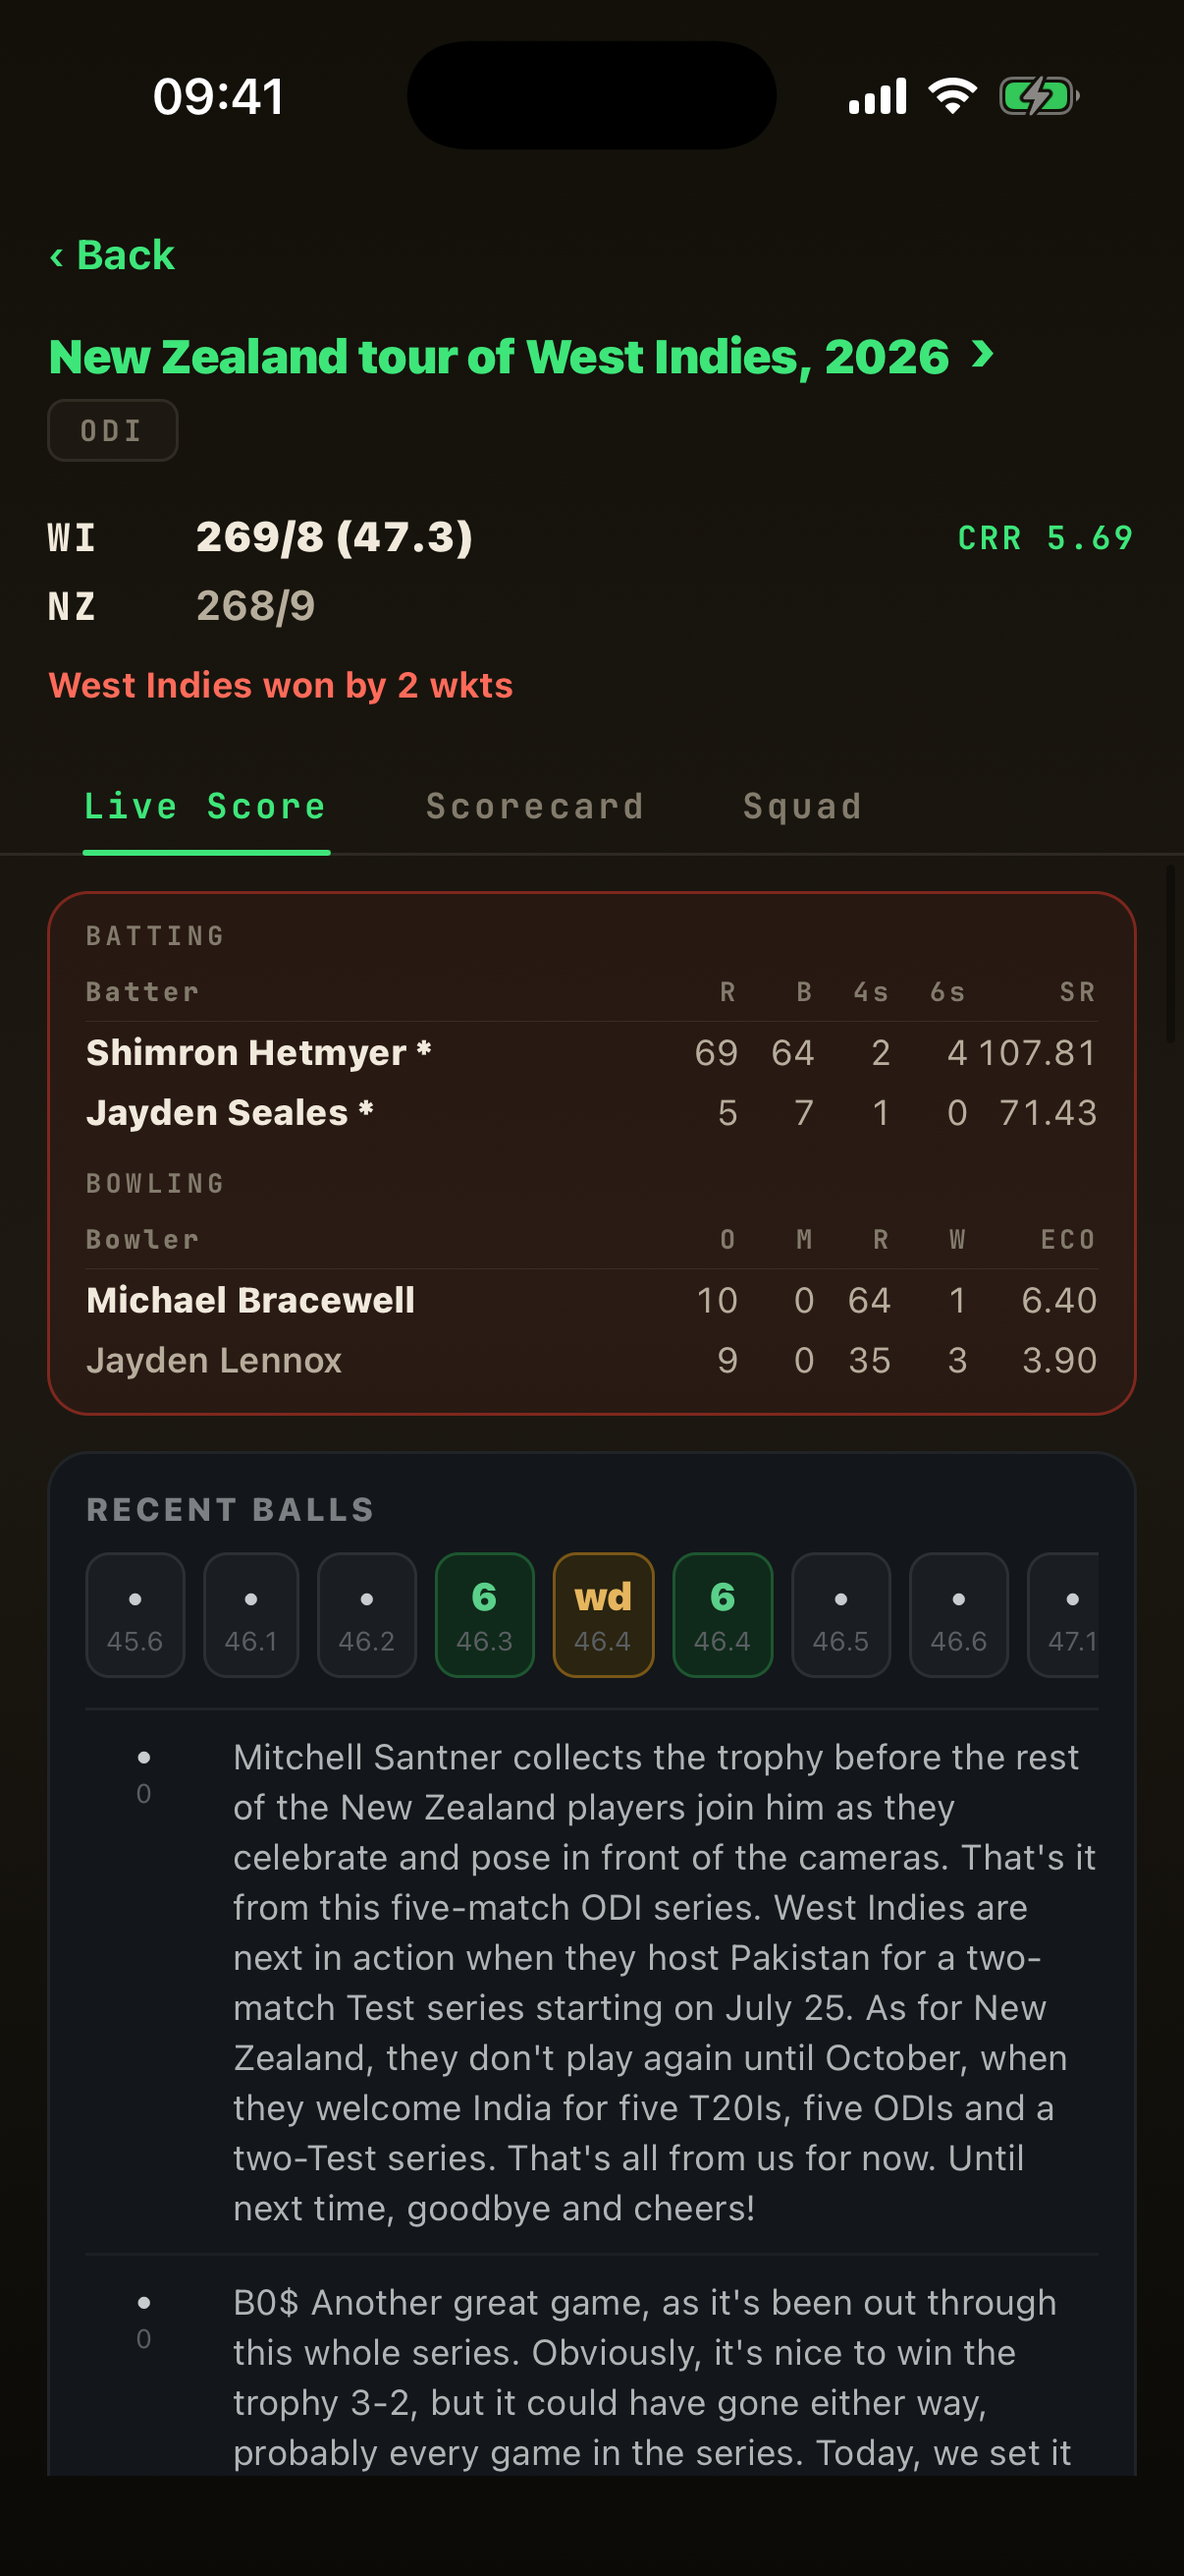
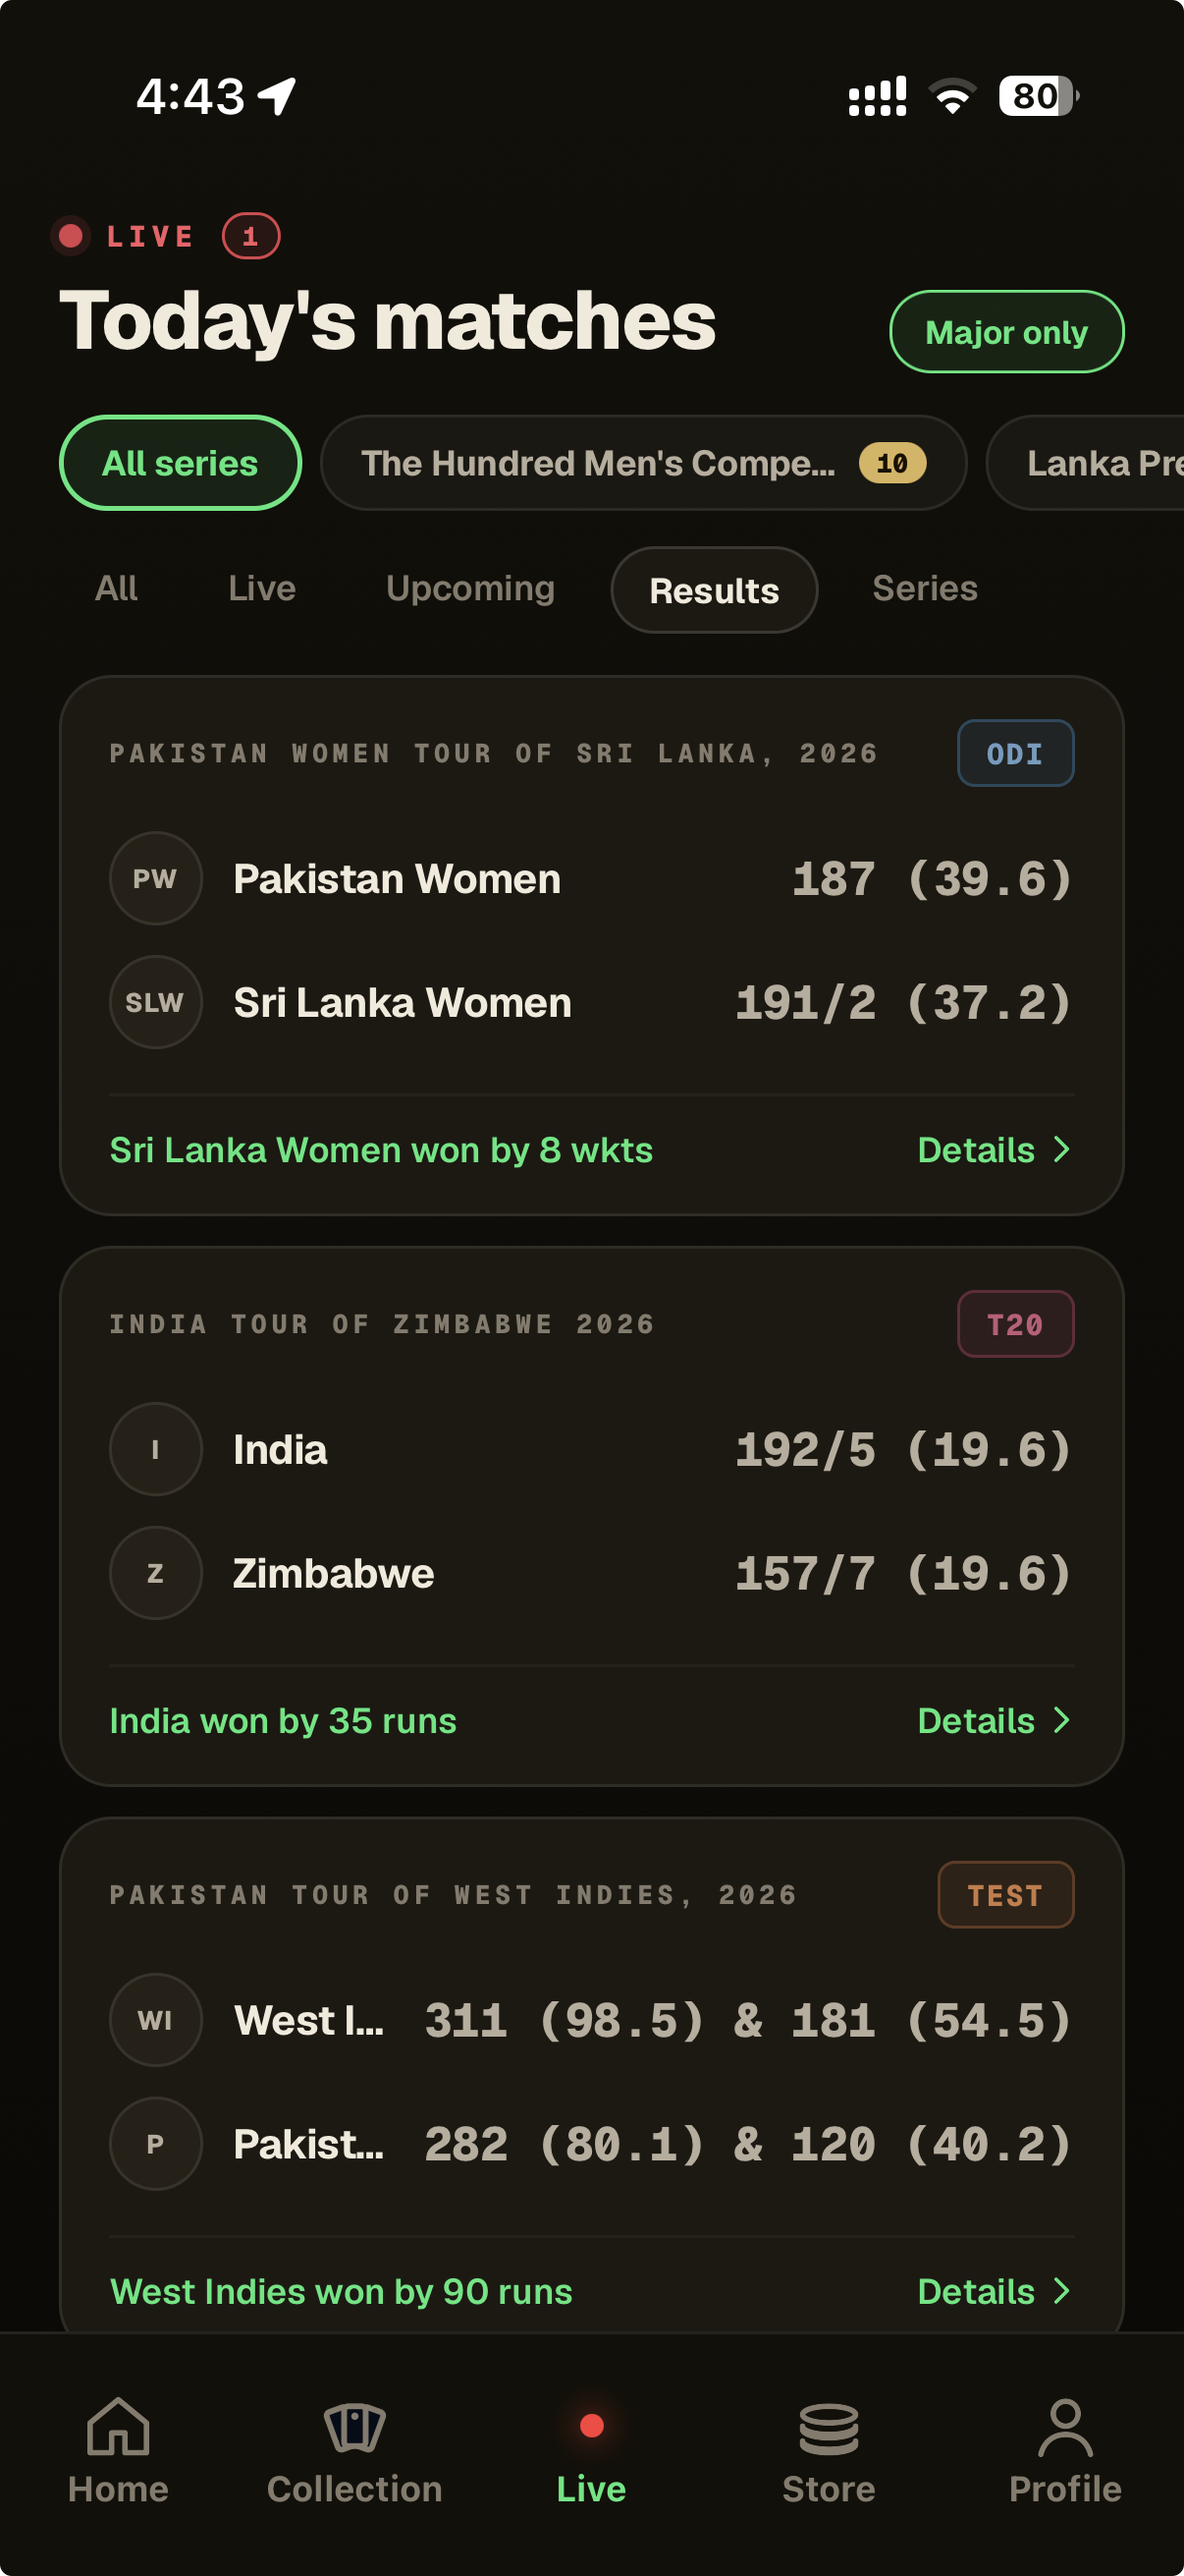
story deck: real Live match-list screenshot (Today's matches)

diff --git a/docs/story/index.html b/docs/story/index.html
@@ -3,7 +3,7 @@
 <head>
 <meta charset="utf-8" />
 <meta name="viewport" content="width=device-width, initial-scale=1" />
-<title>Zero Lines of Code — The Build Story (story-first)</title>
+<title>Zero Lines of Code — The Build Story</title>
 <style>
   :root{
     --bg:#0b0a07; --bg3:#12100b; --ink:#f1eadc; --muted:#b3aa95; --faint:#847b68;
@@ -158,6 +158,66 @@
     </div>
   </section>
 
+  <!-- 10 · THE GAME · RULES + HOW TO PLAY -->
+  <section class="slide" data-notes="The result — the game itself. It's a stat-comparison card game, Top Trumps for cricket. Hold a hand of real cricketers, call a stat each round, the better number wins the card (lower for bowling average and economy), most cards wins. And the app teaches it in three screens: a starter squad dealt on first launch, a live stat-duel demo, and the format + opponent picker.">
+    <div class="fill row mt-s" style="gap:2vw;align-items:center">
+      <div class="col gap-m" style="flex:1;min-width:0">
+        <div class="kicker">The game · how it plays</div>
+        <h2>Top Trumps, <span class="grad">for cricket.</span></h2>
+        <div class="steps">
+          <div class="step"><span class="b">1</span><div><div class="st">Hold a hand of cards</div><div class="sd">real cricketers — batsmen, bowlers, all-rounders</div></div></div>
+          <div class="step"><span class="b">2</span><div><div class="st">Call a stat each round</div><div class="sd">pick your strongest number — runs, wickets, strike rate</div></div></div>
+          <div class="step"><span class="b">3</span><div><div class="st">Better number wins</div><div class="sd">higher wins — <span class="gold">lower</span> for bowling average &amp; economy</div></div></div>
+          <div class="step"><span class="b">4</span><div><div class="st">Capture the card</div><div class="sd">most cards wins the match · 30-second turns</div></div></div>
+        </div>
+        <div class="row wrap gap-s" style="gap:10px"><span class="chip g">Test</span><span class="chip g">ODI</span><span class="chip g">T20</span><span class="chip g">IPL</span></div>
+      </div>
+      <div class="col center"><div class="phone wide ph-h60"><img src="assets/s-htp1.png" alt=""></div><div class="cap">Welcome<small>starter squad, dealt free</small></div></div>
+      <div class="col center"><div class="phone wide ph-h60"><img src="assets/s-htp2.png" alt=""></div><div class="cap">Live demo<small>call a stat · better wins</small></div></div>
+      <div class="col center"><div class="phone wide ph-h60"><img src="assets/s-htp3.png" alt=""></div><div class="cap">Ready to clash<small>pick format &amp; opponent</small></div></div>
+    </div>
+  </section>
+
+  <!-- 11 · GAMEPLAY IN ACTION -->
+  <section class="slide" data-notes="See it played. The toss decides who calls first — real lineups, real faces. Then one stat decides each round: the better number captures the opponent's card. Win or lose, every finished match drops free cards into your collection — two if you win.">
+    <div class="col stagger" style="gap:6px"><div class="kicker">The game · in action</div><h2>Call a stat. <span class="grad">Better wins.</span></h2></div>
+    <div class="grid4 fill mt-m" style="align-items:start">
+      <div class="col center"><div class="phone wide ph-h54"><img src="assets/s-toss.png" alt=""></div><div class="cap">The toss<small>real lineups · winner plays first</small></div></div>
+      <div class="col center"><div class="phone wide ph-h54"><img src="assets/s-match.png" alt=""></div><div class="cap">Call a stat<small>your card, your call — 30s a turn</small></div></div>
+      <div class="col center"><div class="phone wide ph-h54"><img src="assets/s-win.png" alt=""></div><div class="cap">Round won<small>better number takes the card</small></div></div>
+      <div class="col center"><div class="phone wide ph-h54"><img src="assets/s-reward.png" alt=""></div><div class="cap">Match reward<small>a free card every match · 2 for a win</small></div></div>
+    </div>
+  </section>
+
+  <!-- 12 · THE SURFACES -->
+  <section class="slide" data-notes="And the surfaces: Store sells players and packs for coins; Collection is your squad with format and role filters; Home is the hub — modes, streaks, your cards; and every card opens to full real career stats. Every screenshot is the real app.">
+    <div class="col stagger" style="gap:6px"><div class="kicker">The surfaces</div><h2>Four tabs, the whole game.</h2></div>
+    <div class="grid4 fill mt-m" style="align-items:start">
+      <div class="col center"><div class="phone wide ph-h60"><img src="assets/s-store.png" alt=""></div><div class="cap">🛒 Store<small>buy players &amp; packs for coins</small></div></div>
+      <div class="col center"><div class="phone wide ph-h60"><img src="assets/s-collection.png" alt=""></div><div class="cap">📦 Collection<small>your squad · filter by format/role</small></div></div>
+      <div class="col center"><div class="phone wide ph-h60"><img src="assets/s-home.png" alt=""></div><div class="cap">🏠 Home<small>modes · streaks · your cards</small></div></div>
+      <div class="col center"><div class="phone wide ph-h60"><img src="assets/s-carddetail.png" alt=""></div><div class="cap">👤 Player<small>real career stats &amp; tiers</small></div></div>
+    </div>
+  </section>
+
+  <!-- 13 · LIVE SCORES -->
+  <section class="slide" data-notes="There's also a Live tab — real cricket, not mocked. A Cricbuzz real-time API feeds the NestJS backend, which caches it (60s while a match is live) so thousands of users cost one upstream call, then reshapes the messy JSON into exactly what each screen needs: today's matches ranked cricinfo-style (ICC events and internationals first — women's included), full scorecards for both innings, and ball-by-ball commentary.">
+    <div class="col stagger" style="gap:6px"><div class="kicker">And the Live tab · real cricket</div><h2>Real scores. <span class="grad">No scraping.</span></h2></div>
+    <div class="fill row mt-s" style="gap:3vw;align-items:center">
+      <div class="col center"><div class="phone wide ph-h60"><img src="assets/s-live-home.png" alt=""></div><div class="cap">Today’s matches<small>ranked cricinfo-style — internationals first</small></div></div>
+      <div class="col center"><div class="phone wide ph-h60"><img src="assets/s-live-scorecard.png" alt=""></div><div class="cap">Full scorecard<small>both innings · the live chase</small></div></div>
+      <div class="col fill gap-m">
+        <p class="lead">The Live tab is real cricket, not mocked — today's matches, full scorecards and ball-by-ball commentary, straight from the Cricbuzz API.</p>
+        <div class="steps">
+          <div class="step"><span class="b n">1</span><div><div class="st">Fetch</div><div class="sd">Cricbuzz API — live matches · scorecards · commentary · series &amp; squads</div></div></div>
+          <div class="step"><span class="b n">2</span><div><div class="st">Cache &amp; rank</div><div class="sd">NestJS proxy · 60s live cache · ranked cricinfo-style — internationals first</div></div></div>
+          <div class="step"><span class="b n">3</span><div><div class="st">Render</div><div class="sd">series pills · both innings · batters, bowlers &amp; the live chase</div></div></div>
+        </div>
+        <div class="row wrap gap-s" style="gap:9px"><span class="chip y">Cricbuzz API</span><span class="chip">one upstream call for all users</span></div>
+      </div>
+    </div>
+  </section>
+
   <!-- 2 · THE CARDS (bought) -->
   <section class="slide" data-notes="It started with a deck of cards. Before any code — before even the sketch — I bought this 'ODI Cricket Legends' Top Trumps deck online and scanned it. The whole game is here: years active, the player photo, name and flag, the same grid of stats. The app is the digital, living version of this.">
     <div class="col stagger" style="gap:6px"><div class="kicker gold">Chapter 1 · the spark</div><h2>It started with <span class="grad">a deck of cards.</span></h2></div>
@@ -302,66 +362,6 @@
       <div class="col" style="flex:1;gap:9px">
         <div class="panel" style="padding:7px;border-radius:12px"><img src="assets/d-appstore-page.png" alt="" style="width:100%;border-radius:7px;display:block"></div>
         <div><h3 class="green">🍏 The App Store — live</h3><p style="margin-top:3px">The end of the line: the approved build on its real product page, downloadable by anyone today. <span class="chip" style="margin-left:4px">Cricket Cards Royale</span></p></div>
-      </div>
-    </div>
-  </section>
-
-  <!-- 10 · THE GAME · RULES + HOW TO PLAY -->
-  <section class="slide" data-notes="The result — the game itself. It's a stat-comparison card game, Top Trumps for cricket. Hold a hand of real cricketers, call a stat each round, the better number wins the card (lower for bowling average and economy), most cards wins. And the app teaches it in three screens: a starter squad dealt on first launch, a live stat-duel demo, and the format + opponent picker.">
-    <div class="fill row mt-s" style="gap:2vw;align-items:center">
-      <div class="col gap-m" style="flex:1;min-width:0">
-        <div class="kicker">The game · how it plays</div>
-        <h2>Top Trumps, <span class="grad">for cricket.</span></h2>
-        <div class="steps">
-          <div class="step"><span class="b">1</span><div><div class="st">Hold a hand of cards</div><div class="sd">real cricketers — batsmen, bowlers, all-rounders</div></div></div>
-          <div class="step"><span class="b">2</span><div><div class="st">Call a stat each round</div><div class="sd">pick your strongest number — runs, wickets, strike rate</div></div></div>
-          <div class="step"><span class="b">3</span><div><div class="st">Better number wins</div><div class="sd">higher wins — <span class="gold">lower</span> for bowling average &amp; economy</div></div></div>
-          <div class="step"><span class="b">4</span><div><div class="st">Capture the card</div><div class="sd">most cards wins the match · 30-second turns</div></div></div>
-        </div>
-        <div class="row wrap gap-s" style="gap:10px"><span class="chip g">Test</span><span class="chip g">ODI</span><span class="chip g">T20</span><span class="chip g">IPL</span></div>
-      </div>
-      <div class="col center"><div class="phone wide ph-h60"><img src="assets/s-htp1.png" alt=""></div><div class="cap">Welcome<small>starter squad, dealt free</small></div></div>
-      <div class="col center"><div class="phone wide ph-h60"><img src="assets/s-htp2.png" alt=""></div><div class="cap">Live demo<small>call a stat · better wins</small></div></div>
-      <div class="col center"><div class="phone wide ph-h60"><img src="assets/s-htp3.png" alt=""></div><div class="cap">Ready to clash<small>pick format &amp; opponent</small></div></div>
-    </div>
-  </section>
-
-  <!-- 11 · GAMEPLAY IN ACTION -->
-  <section class="slide" data-notes="See it played. The toss decides who calls first — real lineups, real faces. Then one stat decides each round: the better number captures the opponent's card. Win or lose, every finished match drops free cards into your collection — two if you win.">
-    <div class="col stagger" style="gap:6px"><div class="kicker">The game · in action</div><h2>Call a stat. <span class="grad">Better wins.</span></h2></div>
-    <div class="grid4 fill mt-m" style="align-items:start">
-      <div class="col center"><div class="phone wide ph-h54"><img src="assets/s-toss.png" alt=""></div><div class="cap">The toss<small>real lineups · winner plays first</small></div></div>
-      <div class="col center"><div class="phone wide ph-h54"><img src="assets/s-match.png" alt=""></div><div class="cap">Call a stat<small>your card, your call — 30s a turn</small></div></div>
-      <div class="col center"><div class="phone wide ph-h54"><img src="assets/s-win.png" alt=""></div><div class="cap">Round won<small>better number takes the card</small></div></div>
-      <div class="col center"><div class="phone wide ph-h54"><img src="assets/s-reward.png" alt=""></div><div class="cap">Match reward<small>a free card every match · 2 for a win</small></div></div>
-    </div>
-  </section>
-
-  <!-- 12 · THE SURFACES -->
-  <section class="slide" data-notes="And the surfaces: Store sells players and packs for coins; Collection is your squad with format and role filters; Home is the hub — modes, streaks, your cards; and every card opens to full real career stats. Every screenshot is the real app.">
-    <div class="col stagger" style="gap:6px"><div class="kicker">The surfaces</div><h2>Four tabs, the whole game.</h2></div>
-    <div class="grid4 fill mt-m" style="align-items:start">
-      <div class="col center"><div class="phone wide ph-h60"><img src="assets/s-store.png" alt=""></div><div class="cap">🛒 Store<small>buy players &amp; packs for coins</small></div></div>
-      <div class="col center"><div class="phone wide ph-h60"><img src="assets/s-collection.png" alt=""></div><div class="cap">📦 Collection<small>your squad · filter by format/role</small></div></div>
-      <div class="col center"><div class="phone wide ph-h60"><img src="assets/s-home.png" alt=""></div><div class="cap">🏠 Home<small>modes · streaks · your cards</small></div></div>
-      <div class="col center"><div class="phone wide ph-h60"><img src="assets/s-carddetail.png" alt=""></div><div class="cap">👤 Player<small>real career stats &amp; tiers</small></div></div>
-    </div>
-  </section>
-
-  <!-- 13 · LIVE SCORES -->
-  <section class="slide" data-notes="There's also a Live tab — real cricket, not mocked. A Cricbuzz real-time API feeds the NestJS backend, which caches it (60s while a match is live) so thousands of users cost one upstream call, then reshapes the messy JSON into exactly what each screen needs: today's matches ranked cricinfo-style (ICC events and internationals first — women's included), full scorecards for both innings, and ball-by-ball commentary.">
-    <div class="col stagger" style="gap:6px"><div class="kicker">And the Live tab · real cricket</div><h2>Real scores. <span class="grad">No scraping.</span></h2></div>
-    <div class="fill row mt-s" style="gap:3vw;align-items:center">
-      <div class="col center"><div class="phone wide ph-h60"><img src="assets/s-live-home.png" alt=""></div><div class="cap">Live · ball-by-ball<small>score header + commentary</small></div></div>
-      <div class="col center"><div class="phone wide ph-h60"><img src="assets/s-live-scorecard.png" alt=""></div><div class="cap">Full scorecard<small>both innings · the live chase</small></div></div>
-      <div class="col fill gap-m">
-        <p class="lead">The Live tab is real cricket, not mocked — today's matches, full scorecards and ball-by-ball commentary, straight from the Cricbuzz API.</p>
-        <div class="steps">
-          <div class="step"><span class="b n">1</span><div><div class="st">Fetch</div><div class="sd">Cricbuzz API — live matches · scorecards · commentary · series &amp; squads</div></div></div>
-          <div class="step"><span class="b n">2</span><div><div class="st">Cache &amp; rank</div><div class="sd">NestJS proxy · 60s live cache · ranked cricinfo-style — internationals first</div></div></div>
-          <div class="step"><span class="b n">3</span><div><div class="st">Render</div><div class="sd">series pills · both innings · batters, bowlers &amp; the live chase</div></div></div>
-        </div>
-        <div class="row wrap gap-s" style="gap:9px"><span class="chip y">Cricbuzz API</span><span class="chip">one upstream call for all users</span></div>
       </div>
     </div>
   </section>
